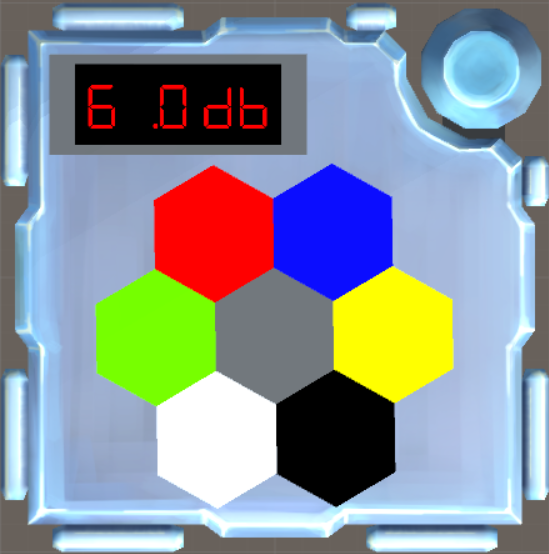
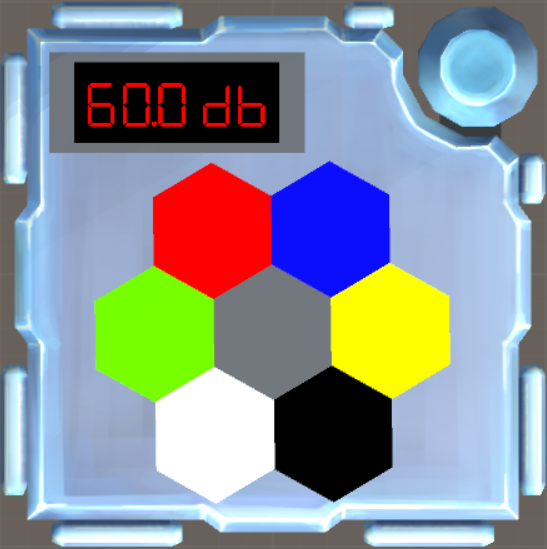
Update

diff --git a/SilencedSimon/Assets/SilencedSimon.cs b/SilencedSimon/Assets/SilencedSimon.cs
@@ -19,7 +19,7 @@ public class SilencedSimon : MonoBehaviour {
     public GameObject[] BamboozledAgainFanfare;
     public Material[] IDontKnowIfINeedThis;
     public TextMesh[] RB_GAY_WK;
-    public GameObject Blocker;
+    public GameObject[] Blocker;
 
     int[] SmallNumbers = {1, 2, 3}; //One sound from 1-3 Decibels
     int[] MediumNumbers = {4, 5, 6, 7, 8, 9}; //Two sounds from 4-9 Decibels
@@ -29,6 +29,7 @@ public class SilencedSimon : MonoBehaviour {
     int[] VolumeComparison = new int[4];
     int[] Submission = new int[4];
     int DecibelReader;
+    int ButtonPressCount;
 
     string[] FuckYouDeaf = {"Lowest", "SecondLowest", "SecondHighest", "Highest"};
     string[] ColorNames = {"Blue", "Green", "Red", "Yellow"};
@@ -59,6 +60,7 @@ public class SilencedSimon : MonoBehaviour {
         ColorblindENGAGE = true;
       }
       DecibelReader = UnityEngine.Random.Range(60, 70);
+      Deciblometer.text = DecibelReader.ToString() + ".0 db";
       Debug.LogFormat("[Silenced Simon #{0}] It starts at {1}.", moduleId, DecibelReader);
       PossibleButtons.Shuffle();
       for (int i = 0; i < 4; i++) {
@@ -106,7 +108,11 @@ public class SilencedSimon : MonoBehaviour {
       Audio.PlayGameSoundAtTransform(KMSoundOverride.SoundEffect.ButtonPress, Button.transform);
       for (int i = 0; i < Buttons.Length; i++) {
         if (Button == Buttons[i]) {
-          if (PreviouslyPressed[i]) {
+          if (moduleSolved) {
+            Audio.PlaySoundAtTransform(FuckYouDeaf[VolumeComparison[i]], transform);
+            return;
+          }
+          else if (PreviouslyPressed[i]) {
             Audio.PlaySoundAtTransform(FuckYouDeaf[VolumeComparison[i]], transform);
             GetComponent<KMBombModule>().HandleStrike();
             return;
@@ -131,7 +137,6 @@ public class SilencedSimon : MonoBehaviour {
                   GetComponent<KMBombModule>().HandleStrike();
                 }
               }
-              Debug.Log(VolumeComparison[i]);
               Audio.PlaySoundAtTransform(FuckYouDeaf[VolumeComparison[i]], transform);
               if (DecibelReader < 10) {
                 Deciblometer.text = "0" + DecibelReader.ToString() + ".0 db";
@@ -139,6 +144,7 @@ public class SilencedSimon : MonoBehaviour {
               else {
                 Deciblometer.text = DecibelReader.ToString() + ".0 db";
               }
+              ButtonPressCount++;
               Debug.LogFormat("[Silenced Simon #{0}] After pressing {1}, you are at {2}.", moduleId, ColorNames[PossibleButtons[i]], DecibelReader);
             }
             else {
@@ -179,6 +185,7 @@ public class SilencedSimon : MonoBehaviour {
           }
           if (Valid) {
             GetComponent<KMBombModule>().HandlePass();
+            moduleSolved = true;
             for (int i = 0; i < 7; i++) {
               RB_GAY_WK[i].text = "";
             }
@@ -269,28 +276,22 @@ public class SilencedSimon : MonoBehaviour {
       }
     }
 
-    IEnumerator MoveLeft () {
-      LeftMover = true;
-      for (int i = 0; i < 4; i++) {
-        Blocker.transform.Translate(-0.00255f, 0f, 0f);
-        yield return new WaitForSeconds(.01f);
-      }
-    }
-
-    IEnumerator MoveDown () {
-      DownMover = true;
-      for (int i = 0; i < 4; i++) {
-        Blocker.transform.Translate(0f, 0f, 0.02986f);
-        yield return new WaitForSecondsRealtime(.01f);
-      }
-    }
-
     void Update () {
-      if (Bomb.GetStrikes() > 2 && !DownMover) {
-        StartCoroutine(MoveDown());
+      if (Bomb.GetStrikes() >= 2) {
+        Blocker[0].gameObject.SetActive(false);
+        Blocker[1].gameObject.SetActive(false);
       }
-      else if (Bomb.GetStrikes() == 2 && !LeftMover) {
-        StartCoroutine(MoveLeft());
+      else if (ButtonPressCount % 10 == 0 && ButtonPressCount != 0) {
+        Blocker[0].gameObject.SetActive(true);
+        Blocker[1].gameObject.SetActive(false);
+      }
+      else if (ButtonPressCount % 5 == 0) {
+        Blocker[0].gameObject.SetActive(false);
+        Blocker[1].gameObject.SetActive(false);
+      }
+      else {
+        Blocker[0].gameObject.SetActive(false);
+        Blocker[1].gameObject.SetActive(true);
       }
     }
 
